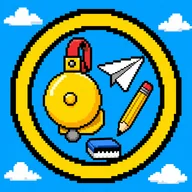
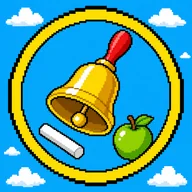
artes: lote 14 (revisao de Springfield + Robert California, Jo Bennett e moldura)
- selo de Springfield regerado (sem cantos pretos; alternativa em escudo
  descartada) e 4 patentes refeitas por contraste.
- tentativa de patente 03 descartada por nao corresponder ao cargo; original
  mantido. Versoes antigas fora do Git em descartadas/.
- office-us: Robert California e Jo Bennett fecham 6/6 retratos.
- moldura memorando gerada e keyada, com halo residual registrado (nao
  aprovada para producao).
- manifesto com 232 registros; sw.js v72 -> v73.

diff --git a/sw.js b/sw.js
@@ -2,7 +2,7 @@
 // App 100% local (Tailwind e Chart.js empacotados em /vendor) — funciona offline na academia.
 // Estratégia: rede primeiro para os arquivos do app (sempre a versão nova quando há sinal),
 // cache como reserva offline. Incremente VERSION ao atualizar app/ativos para renovar o cache offline.
-const VERSION = 'v72';
+const VERSION = 'v73';
 const CACHE = 'berzerker-' + VERSION;
 const CORE = [
   './',

diff --git a/docs/ARTES_NOVOS_TEMAS.md b/docs/ARTES_NOVOS_TEMAS.md
@@ -30,6 +30,8 @@ Lote 1 autorizado pelo pedido do usuário: “gerar algumas novas imagens para a
 
 **Lote 13 (mesma sessão):** 5 monstros finais + **fundo da Caverna** + 4 retratos do upgrade do Office. **Caverna fecha 24/24 — quinto tema completo.** Ver §18.
 
+**Lote 14 (mesma sessão, revisão pedida pelo usuário):** **selo e 4 patentes de Springfield regerados**, 2 retratos do Office e **moldura `memorando`**. Ver §19.
+
 **Decisão de engenharia (19/10):** as **molduras saem da fila de geração** e vão para a sessão de implementação. Motivo: moldura exige alfa por *keying* do xadrez pintado, revisão de halo e teste nos canvases 1080×1920/1080×1080 — trabalho que só faz sentido junto do código que vai desenhá-la. Isso libera as 10 imagens de cada sessão para arte de jogo (retratos e patentes) e **elimina ~6 imagens do plano**.
 
 ## 1. Capacidade e método
@@ -482,23 +484,50 @@ Total do lote: **10 arquivos, 659.124 bytes**. Todos candidatos.
 - Os quatro retratos usam a paleta de escritório (bege, cinza, azul, acento vermelho) e não a paleta de jogo dos temas novos, como manda o upgrade aprovado.
 - O script passou a mapear o prefixo `office` → `office-us`; antes ele avisava “tema desconhecido” para esses retratos.
 
-## 19. Estratégia de lotes (10 imagens por sessão)
+## 19. Lote 14 — revisão de Springfield + fim dos pendentes
+
+Pedido do usuário: “gerar as pendentes e refazer algumas dos Simpsons que ficaram ruins ou gerar novas alternativas”. Antes de regerar, montei a cartela completa do tema (24 peças) e classifiquei o que estava fraco.
+
+| Peça | Ação | Resultado |
+|---|---|---|
+| Selo de Springfield | **regerado** | v2: disco amarelo com rosquinha ocupando o 1:1, acabaram os **cantos pretos**. Alternativa em escudo (v3) foi gerada e **descartada** — destoa do formato circular dos outros cinco selos |
+| Patente 01 — Aluno de Springfield | regerada | sino grande + giz + maçã, alto contraste (antes: aviãozinho e lápis finos) |
+| Patente 02 — Entregador de Jornal | regerada | jornal enrolado com faixa vermelha e bolsas brancas |
+| Patente 05 — Funcionário do Mês | regerada | medalha grande com laço vermelho e estrela (antes: placa apagada) |
+| Patente 06 — Supervisor de Turno | regerada | apito grande com cordão, relógio e prancheta limpos (antes: três objetos miúdos) |
+| Patente 03 — Estagiário da Usina | tentativa **descartada** | gerei uma banca de frutas por engano — não corresponde à patente. O **original** (capacete, chave e haste) foi mantido |
+| Retratos 13, 15–24 | **mantidos** | passaram na revisão: o que parecia “ruim” era a escala das miniaturas |
+
+Arquivos derivados atualizados: `springfield/temas/springfield.webp` e as patentes 01, 02, 05 e 06. As versões antigas e as tentativas descartadas ficam **fora do Git** em `.cache/artes-originais/novos-temas/descartadas/` (voláteis, como todos os originais).
+
+**Pendentes fechados neste lote**
+| Peça | Arquivo | Dimensões | Bytes |
+|---|---|---:|---:|
+| Retrato — Robert California | `office-us/bosses/office-us-b05.webp` | 512×512 | 40.996 |
+| Retrato — Jo Bennett | `office-us/bosses/office-us-b06.webp` | 512×512 | 42.388 |
+| Moldura — Memorando | `office-us/molduras/moldura-office-us.webp` | 768×1152 | 27.474 |
+
+- **Office (upgrade) chega a 6/6 retratos.**
+- **Moldura `memorando`:** o gerador devolveu 1024×1536 (2:3), não o quadro 1080×1920 do card. O fundo magenta foi removido por keying, mas ficou **halo rosa fino** nas bordas externas — registrado no manifesto. Precisa de limpeza e recorte antes de uso; **não está aprovada para produção**.
+- Continua valendo: as outras 4 molduras (`elementos`, `tv`, `tocha`, `bueiro`/`sitcom`) não foram geradas.
+
+## 20. Estratégia de lotes (10 imagens por sessão)
 
 Regra: **fechar um tema por vez**. Um tema completo pode ser cadastrado e testado de ponta a ponta mesmo que os lotes seguintes atrasem.
 
-Situação após o lote 13: **cinco temas 24/24** (avatar, vila, esgoto, springfield, caverna); **Office (upgrade) 4/6 retratos**. Restam **2 peças de arte de jogo** + fundo e moldura:
+Situação após o lote 14: **cinco temas 24/24** (avatar, vila, esgoto, springfield, caverna) e **Office (upgrade) com 6/6 retratos**. Arte de jogo **completa**; o que resta é infraestrutura:
 
-| Etapa | Conteúdo | Fecha |
-|---|---|---|
-| lote final | Robert California + Jo Bennett + fundo Office + moldura `memorando` | **Office (upgrade)** |
-| implementação | 5 entradas em `THEMES`, 4 molduras restantes, CORE, testes, navegador | galeria com 5 temas novos |
+| Etapa | Conteúdo |
+|---|---|
+| geração opcional | 4 molduras (`elementos`, `tv`, `tocha`, `bueiro`) + 1 fundo de card do Office — podem vir na sessão de implementação, junto do código que usa cada uma |
+| implementação | 5 entradas em `THEMES` (ou 6, se o Office virar upgrade de fato), `THEME_IDS_LIST`/`THEME_ICONS`/`STORY_CARD_STYLES`, `DEFAULT_BOSS_PORTRAITS` 144 → 204, molduras em `js/cartoes.js`, CORE do `sw.js`, testes e validação no navegador |
 
 - **Ponto de corte recomendado**: **três temas completos** (Avatar, Vila, Esgoto) já permitem abrir a PR e validar o fluxo de cadastro ponta a ponta. Os lotes 9–13 entram como commits incrementais.
 - Cada lote termina com derivação (`scripts/prepare-art-novos-temas.sh`), manifesto e commit; o `sw.js` sobe a cada commit que toca `images/**` (neste lote, **v62 → v63**), mesmo sem CORE novo.
 - **Molduras** (`elementos`, `tv`, `tocha`, `memorando`, `sitcom`, `bueiro`) e **4 fundos de card** entram na sessão de implementação, junto do código que os usa: precisam de keying de alfa e teste nos canvases. Planejar 1 imagem por moldura **fora dos lotes de 10**.
 - Na sessão final o trabalho é: entradas em `THEMES`, `THEME_IDS_LIST`/`THEME_ICONS`/`STORY_CARD_STYLES`, molduras em `js/cartoes.js`, `DEFAULT_BOSS_PORTRAITS` 144 → 192, CORE do `sw.js`, testes de arte/tema e validação em navegador real.
 
-## 20. Pendências e decisões
+## 21. Pendências e decisões
 
 1. **The Office**: **upgrade aprovado pelo usuário em 19/10** (`docs/ANALISE_TEMA_OFFICE.md`, caminho A). Mantém o tema `office`, as 24 artes e a regra “sem vilões”; adota o vocabulário (Vendas, Negócio Fechado, Meta Semanal, Trimestre Fiscal, Festa do Comitê) e os 6 desafios com personagem da §5 daquele documento. O selo `office-us` do lote 1 passa a ser **identidade alternativa** do card, não um tema novo; o `office-us` como tema separado está **descartado**. Implementação fica para a sessão final (lote 14 + código).
 2. **Regerar depois**: cantos pretos do selo de Springfield e, se a leitura a 28 px incomodar, o selo de The Office (papel bege com pouco contraste).

diff --git a/CHANGELOG.md b/CHANGELOG.md
@@ -24,6 +24,7 @@ Formato baseado em [Keep a Changelog](https://keepachangelog.com/pt-BR/1.1.0/).
 - **Lote 11:** os 3 retratos finais de Springfield (Sr. Burns, Bob Sideshow, Multidão) + as **7 primeiras patentes da Caverna do Dragão**; 10 arquivos / 295 KB, candidatos; manifesto com **209 registros**. **Springfield fecha 24/24 — quarto tema completo.** Caverna em 8/24. Dica do usuário incorporada: evitar termos de conflito no prompt (o trio passou como “amigos de escola acenando”). Restam 22 peças em 3 lotes; `sw.js` **v69 → v70**.
 - **Lote 12:** **patentes 08–10 da Caverna** (Portador do Arco, Herói de Reide, De Volta pra Casa) + os **7 primeiros monstros** (Mímico, Aranha Gigante, Cubo Gelatinoso, Urso-Coruja, Demônio das Sombras, Beholder, Devorador de Mentes); 10 arquivos / 475 KB, candidatos; manifesto com **219 registros**. **Caverna em 18/24** — 10/10 patentes, faltam 5 monstros e o fundo. Restam 12 peças; `sw.js` **v70 → v71**.
 - **Lote 13:** **Caverna do Dragão fecha 24/24** (Hidra, Lich, Dragão Vermelho, Tiamat, Vingador + fundo de card) — **quinto tema completo**. Início do **upgrade do Office**: retratos de Angela, Dwight, Toby e Jan Levinson em `images/artes/candidatos/office-us/bosses/`; 10 arquivos / 659 KB, candidatos; manifesto com **229 registros**. Restam Robert California, Jo Bennett, fundo e moldura `memorando`. O script passou a mapear o prefixo `office`; `sw.js` **v71 → v72**.
+- **Lote 14 (revisão de Springfield + pendentes finais):** o **selo de Springfield foi regerado** (quadro preenchido, sem os cantos pretos da v1; alternativa em escudo avaliada e descartada) e **4 patentes foram refeitas** por baixo contraste (Aluno, Entregador de Jornal, Funcionário do Mês, Supervisor de Turno). Uma tentativa de patente 03 (banca de frutas) foi descartada por não corresponder ao cargo — o original foi mantido. Os 12 retratos do tema foram preservados após revisão da cartela completa. Também entraram **Robert California** e **Jo Bennett**, fechando **6/6 retratos do upgrade do Office**, e a **moldura `memorando`** (768×1152), gerada com fundo magenta e convertida por keying — tem **halo rosa residual** e proporção 2:3, então **não está aprovada para produção**. Manifesto com **232 registros**; `sw.js` **v72 → v73**.
 - Pendências e colisão explícitas: `office` já existe no app (PR #32), então o quarto pedido precisa virar upgrade do tema, tema separado ou ser descartado; faltam 4 fundos, 6 molduras e 132 retratos/patentes (6×12 + 6×10). Nenhuma mudança em `THEMES`, XP, dano, PR, temporadas ou backup; `sw.js` sobe **v60 → v61** só pela regra de versão de `images/**` (nenhum arquivo novo no CORE). Limites de propriedade intelectual dos seis seriados registrados.
 
 ## [Não lançado] — artes ThunderCats e The Office (lotes 1–6) + cadastro dos dois temas na galeria
